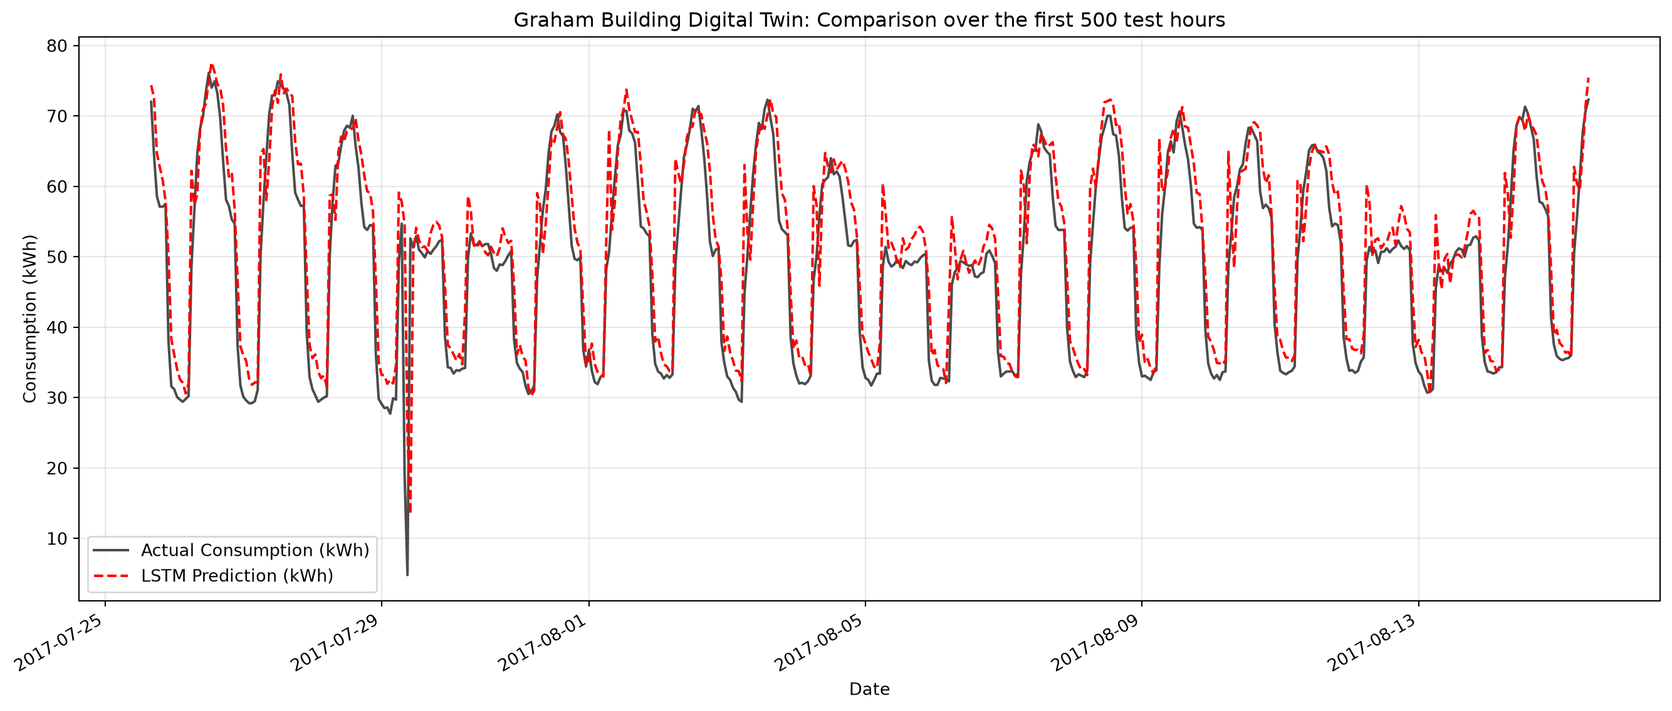
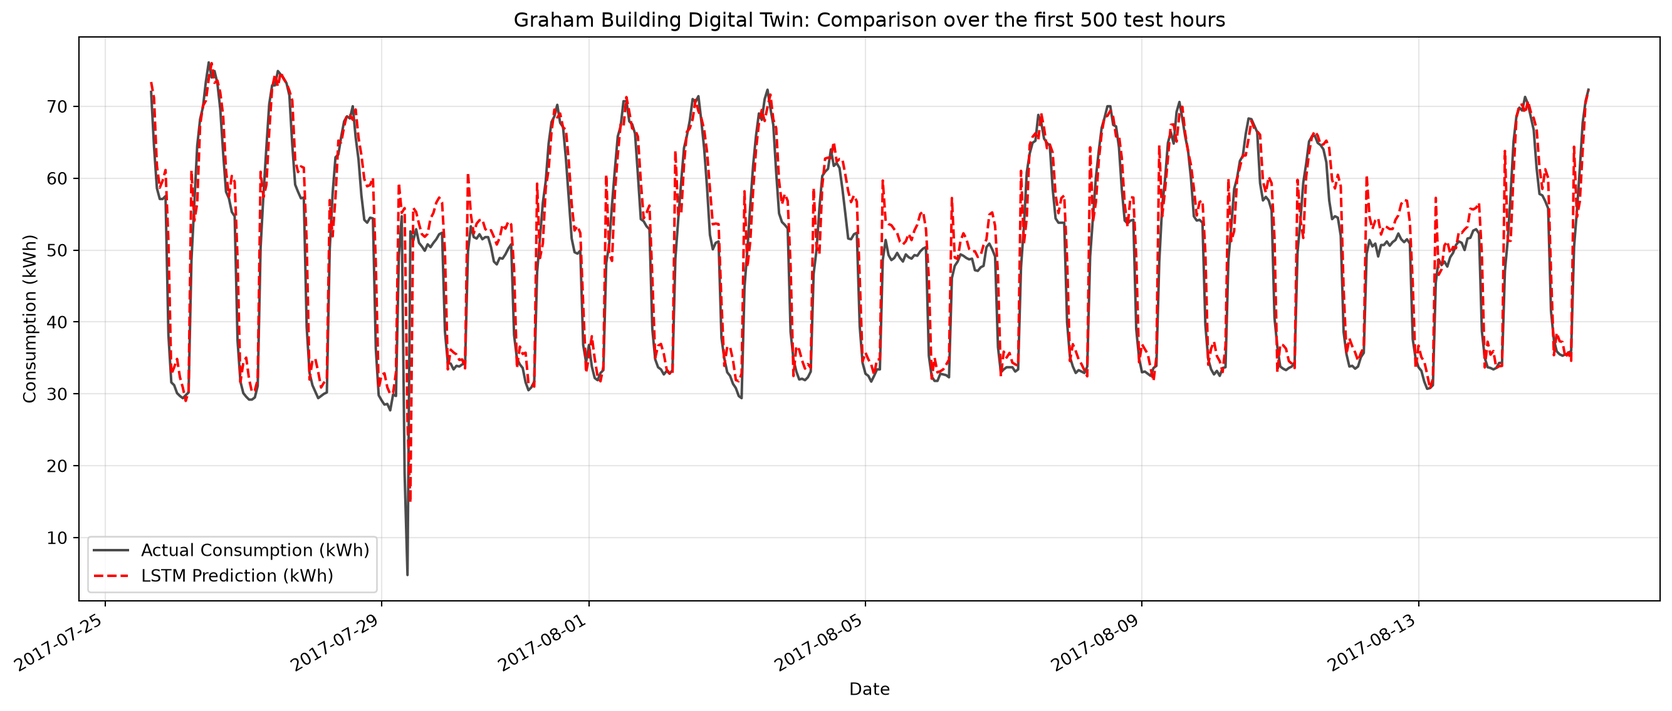
Built site for gh-pages

diff --git a/ai-ml/optitherm.html b/ai-ml/optitherm.html
@@ -497,7 +497,7 @@ os.environ['KAGGLE_KEY'] = "your_api_key"</code></pre>
 </div>
 </div>
 <hr>
-<div id="7ec935d2" class="cell" data-execution_count="1">
+<div id="0e79aba7" class="cell" data-execution_count="1">
 <div class="code-copy-outer-scaffold"><div class="sourceCode cell-code" id="cb2"><pre class="sourceCode python code-with-copy"><code class="sourceCode python"><span id="cb2-1"><a href="#cb2-1" aria-hidden="true" tabindex="-1"></a><span class="im">import</span> os</span>
 <span id="cb2-2"><a href="#cb2-2" aria-hidden="true" tabindex="-1"></a><span class="im">import</span> pandas <span class="im">as</span> pd</span>
 <span id="cb2-3"><a href="#cb2-3" aria-hidden="true" tabindex="-1"></a></span>
@@ -598,7 +598,7 @@ operable program or batch file.</code></pre>
 </section>
 <section id="stage-1-data-engineering-and-consolidation-1" class="level2">
 <h2 class="anchored" data-anchor-id="stage-1-data-engineering-and-consolidation-1">Stage 1: Data Engineering and Consolidation</h2>
-<div id="d44dda5a" class="cell" data-execution_count="2">
+<div id="8f6107e3" class="cell" data-execution_count="2">
 <div class="code-copy-outer-scaffold"><div class="sourceCode cell-code" id="cb5"><pre class="sourceCode python code-with-copy"><code class="sourceCode python"><span id="cb5-1"><a href="#cb5-1" aria-hidden="true" tabindex="-1"></a><span class="co"># Parameters for the digital twin</span></span>
 <span id="cb5-2"><a href="#cb5-2" aria-hidden="true" tabindex="-1"></a>building_id <span class="op">=</span> <span class="st">"Panther_office_Graham"</span></span>
 <span id="cb5-3"><a href="#cb5-3" aria-hidden="true" tabindex="-1"></a>site_id <span class="op">=</span> <span class="st">"Panther"</span></span>
@@ -663,7 +663,7 @@ dtype: int64</code></pre>
 <section id="next-step" class="level4">
 <h4 class="anchored" data-anchor-id="next-step">Next Step</h4>
 <p>Before deciding whether to impute or discard these observations, a visual temporal analysis is required to identify the distribution and duration of the electricity meter outages.</p>
-<div id="7458c3c0" class="cell" data-execution_count="3">
+<div id="fa9366c3" class="cell" data-execution_count="3">
 <div class="code-copy-outer-scaffold"><div class="sourceCode cell-code" id="cb7"><pre class="sourceCode python code-with-copy"><code class="sourceCode python"><span id="cb7-1"><a href="#cb7-1" aria-hidden="true" tabindex="-1"></a><span class="im">import</span> matplotlib.pyplot <span class="im">as</span> plt</span>
 <span id="cb7-2"><a href="#cb7-2" aria-hidden="true" tabindex="-1"></a></span>
 <span id="cb7-3"><a href="#cb7-3" aria-hidden="true" tabindex="-1"></a><span class="bu">print</span>(<span class="st">"1. Cleaning exogenous variables (weather data)..."</span>)</span>
@@ -719,7 +719,7 @@ dtype: int64
 <p>Interestingly, the prolonged sensor outage observed during the summer of 2017 was retained and used as a natural temporal boundary between the training and testing datasets. This approach avoids arbitrary data splitting strategies and ensures a realistic evaluation scenario, where the model is trained on past observations and tested on future unseen conditions.</p>
 <p><strong>Methodological justification:</strong></p>
 <p>The thermal dynamics of a building are learned from temporal sequences using recurrent neural networks (RNN/LSTM) with sliding windows. Therefore, preserving the chronological structure of the data is essential. By using the sensor outage as a natural separation point, the model evaluation better reflects a real-world deployment scenario, where future energy consumption must be predicted based solely on historical information.</p>
-<div id="4a08ff21" class="cell" data-execution_count="4">
+<div id="953369a5" class="cell" data-execution_count="4">
 <div class="code-copy-outer-scaffold"><div class="sourceCode cell-code" id="cb9"><pre class="sourceCode python code-with-copy"><code class="sourceCode python"><span id="cb9-1"><a href="#cb9-1" aria-hidden="true" tabindex="-1"></a><span class="bu">print</span>(<span class="st">"1. Removing the initial data gap (early 2016)..."</span>)</span>
 <span id="cb9-2"><a href="#cb9-2" aria-hidden="true" tabindex="-1"></a></span>
 <span id="cb9-3"><a href="#cb9-3" aria-hidden="true" tabindex="-1"></a><span class="co"># Remove the period with insufficient data coverage</span></span>
@@ -787,7 +787,7 @@ dtype: int64
 <p><strong><em>Why use both sine and cosine components?</em></strong></p>
 <p>Using only one trigonometric function introduces ambiguity due to symmetry. For example, if only the sine component is used, midnight (<span class="math inline">\(\sin(0)=0\)</span>) and noon (<span class="math inline">\(\sin(\pi)=0\)</span>) would receive the same value, preventing the model from distinguishing between day and night. By combining the cosine component (<span class="math inline">\(X\)</span>-axis) and sine component (<span class="math inline">\(Y\)</span>-axis), each timestamp is uniquely represented in a two-dimensional periodic space. Consequently, the Euclidean distance between 23:00 and 01:00 is correctly interpreted as small by the neural network.</p>
 <p>The following code adds these temporal coordinates to the dataset:</p>
-<div id="bf4d4136" class="cell" data-execution_count="5">
+<div id="4825a92d" class="cell" data-execution_count="5">
 <div class="code-copy-outer-scaffold"><div class="sourceCode cell-code" id="cb11"><pre class="sourceCode python code-with-copy"><code class="sourceCode python"><span id="cb11-1"><a href="#cb11-1" aria-hidden="true" tabindex="-1"></a><span class="im">import</span> numpy <span class="im">as</span> np</span>
 <span id="cb11-2"><a href="#cb11-2" aria-hidden="true" tabindex="-1"></a><span class="im">import</span> matplotlib.pyplot <span class="im">as</span> plt</span>
 <span id="cb11-3"><a href="#cb11-3" aria-hidden="true" tabindex="-1"></a></span>
@@ -843,7 +843,7 @@ dtype: int64
 <p>This analysis provides valuable insights for feature selection before training the PyTorch model. Variables with limited predictive relevance may be removed to reduce noise and decrease the dimensionality of the input tensors. However, correlation alone does not fully capture the predictive value of a feature, especially in nonlinear time-dependent systems such as building thermal dynamics.</p>
 <p><strong>Code: Correlation Heatmap</strong></p>
 <p>The following visualization uses the <code>seaborn</code> library to generate a correlation heatmap, providing an overview of the relationships between the selected features and the energy consumption target.</p>
-<div id="a93eaab1" class="cell" data-execution_count="6">
+<div id="4eb40aef" class="cell" data-execution_count="6">
 <div class="code-copy-outer-scaffold"><div class="sourceCode cell-code" id="cb13"><pre class="sourceCode python code-with-copy"><code class="sourceCode python"><span id="cb13-1"><a href="#cb13-1" aria-hidden="true" tabindex="-1"></a><span class="im">import</span> seaborn <span class="im">as</span> sns</span>
 <span id="cb13-2"><a href="#cb13-2" aria-hidden="true" tabindex="-1"></a><span class="im">import</span> matplotlib.pyplot <span class="im">as</span> plt</span>
 <span id="cb13-3"><a href="#cb13-3" aria-hidden="true" tabindex="-1"></a></span>
@@ -912,7 +912,7 @@ Generating the global Heatmap...</code></pre>
 <li><code>day_cos</code>: weekly temporal encoding component.</li>
 </ul>
 <p>The objective is to determine whether past values of these variables contain predictive information about future electricity consumption over a 24-hour horizon. This analysis helps identify delayed relationships that cannot be captured by a standard Pearson correlation computed at the same timestamp.</p>
-<div id="12097fa8" class="cell" data-execution_count="7">
+<div id="22a206e7" class="cell" data-execution_count="7">
 <div class="code-copy-outer-scaffold"><div class="sourceCode cell-code" id="cb15"><pre class="sourceCode python code-with-copy"><code class="sourceCode python"><span id="cb15-1"><a href="#cb15-1" aria-hidden="true" tabindex="-1"></a><span class="im">import</span> pandas <span class="im">as</span> pd</span>
 <span id="cb15-2"><a href="#cb15-2" aria-hidden="true" tabindex="-1"></a><span class="im">import</span> matplotlib.pyplot <span class="im">as</span> plt</span>
 <span id="cb15-3"><a href="#cb15-3" aria-hidden="true" tabindex="-1"></a></span>
@@ -1060,7 +1060,7 @@ dtype: float64</code></pre>
 <p>To predict the energy consumption at time <span class="math inline">\(t\)</span>, the model receives the previous 24 hours of system information:</p>
 <p>[ [X_{t-24}, X_{t-23}, …, X_{t-1}] ]</p>
 <p>Any sequence containing missing target values is discarded to ensure that the model is trained only on physically consistent observations.</p>
-<div id="18eb0b86" class="cell" data-execution_count="8">
+<div id="74896b10" class="cell" data-execution_count="8">
 <div class="code-copy-outer-scaffold"><div class="sourceCode cell-code" id="cb17"><pre class="sourceCode python code-with-copy"><code class="sourceCode python"><span id="cb17-1"><a href="#cb17-1" aria-hidden="true" tabindex="-1"></a><span class="im">import</span> numpy <span class="im">as</span> np</span>
 <span id="cb17-2"><a href="#cb17-2" aria-hidden="true" tabindex="-1"></a><span class="im">import</span> pandas <span class="im">as</span> pd</span>
 <span id="cb17-3"><a href="#cb17-3" aria-hidden="true" tabindex="-1"></a><span class="im">from</span> sklearn.preprocessing <span class="im">import</span> MinMaxScaler</span>
@@ -1193,7 +1193,7 @@ Testing X : (3824, 24, 11), y: (3824, 1)</code></pre>
 </ol>
 <p>The model parameters are optimized by minimizing the Mean Squared Error (MSE) loss, which is appropriate for this continuous regression problem. The Adam optimizer is selected due to its adaptive learning rate mechanism and its robustness for training deep neural networks.</p>
 <p>The following code implements the <code>ThermalLSTM</code> architecture and initializes the training configuration.</p>
-<div id="5716e22a" class="cell" data-execution_count="9">
+<div id="ab70c3a6" class="cell" data-execution_count="9">
 <div class="code-copy-outer-scaffold"><div class="sourceCode cell-code" id="cb19"><pre class="sourceCode python code-with-copy"><code class="sourceCode python"><span id="cb19-1"><a href="#cb19-1" aria-hidden="true" tabindex="-1"></a><span class="im">import</span> torch</span>
 <span id="cb19-2"><a href="#cb19-2" aria-hidden="true" tabindex="-1"></a><span class="im">import</span> torch.nn <span class="im">as</span> nn</span>
 <span id="cb19-3"><a href="#cb19-3" aria-hidden="true" tabindex="-1"></a><span class="im">import</span> torch.optim <span class="im">as</span> optim</span>
@@ -1276,7 +1276,7 @@ ThermalLSTM(
 -&gt; Model ready for training.</code></pre>
 </div>
 </div>
-<div id="3354c1bd" class="cell" data-execution_count="10">
+<div id="896c7929" class="cell" data-execution_count="10">
 <div class="code-copy-outer-scaffold"><div class="sourceCode cell-code" id="cb21"><pre class="sourceCode python code-with-copy"><code class="sourceCode python"><span id="cb21-1"><a href="#cb21-1" aria-hidden="true" tabindex="-1"></a><span class="im">import</span> torch</span>
 <span id="cb21-2"><a href="#cb21-2" aria-hidden="true" tabindex="-1"></a><span class="im">from</span> torch.utils.data <span class="im">import</span> TensorDataset, DataLoader</span>
 <span id="cb21-3"><a href="#cb21-3" aria-hidden="true" tabindex="-1"></a></span>
@@ -1325,7 +1325,7 @@ Creating DataLoaders...
 <p>After each epoch, the model is evaluated on the future unseen dataset separated by the natural sensor outage boundary. This chronological evaluation provides a realistic measure of the model’s generalization capability.</p></li>
 </ol>
 <p>The evolution of the training and evaluation losses is stored throughout the optimization process to monitor convergence and detect potential overfitting.</p>
-<div id="f65a07c1" class="cell" data-execution_count="11">
+<div id="9c539db8" class="cell" data-execution_count="11">
 <div class="code-copy-outer-scaffold"><div class="sourceCode cell-code" id="cb23"><pre class="sourceCode python code-with-copy"><code class="sourceCode python"><span id="cb23-1"><a href="#cb23-1" aria-hidden="true" tabindex="-1"></a><span class="im">import</span> torch</span>
 <span id="cb23-2"><a href="#cb23-2" aria-hidden="true" tabindex="-1"></a></span>
 <span id="cb23-3"><a href="#cb23-3" aria-hidden="true" tabindex="-1"></a><span class="bu">print</span>(<span class="st">"Configuring the training loop..."</span>)</span>
@@ -1405,33 +1405,33 @@ Creating DataLoaders...
 <span id="cb23-77"><a href="#cb23-77" aria-hidden="true" tabindex="-1"></a><span class="bu">print</span>(<span class="ss">f"Best test MSE: </span><span class="sc">{</span>best_test_loss<span class="sc">:.6f}</span><span class="ss">"</span>)</span></code></pre></div><button title="Copy to Clipboard" class="code-copy-button"><i class="bi"></i></button></div>
 <div class="cell-output cell-output-stdout">
 <pre><code>Configuring the training loop...
-Epoch [  1/200] | Train Loss (MSE): 0.026832 | Test Loss (MSE): 0.021103
-Epoch [ 10/200] | Train Loss (MSE): 0.002679 | Test Loss (MSE): 0.004645
-Epoch [ 20/200] | Train Loss (MSE): 0.001931 | Test Loss (MSE): 0.003040
-Epoch [ 30/200] | Train Loss (MSE): 0.000739 | Test Loss (MSE): 0.001624
-Epoch [ 40/200] | Train Loss (MSE): 0.000601 | Test Loss (MSE): 0.001404
-Epoch [ 50/200] | Train Loss (MSE): 0.000558 | Test Loss (MSE): 0.001322
-Epoch [ 60/200] | Train Loss (MSE): 0.000543 | Test Loss (MSE): 0.001395
-Epoch [ 70/200] | Train Loss (MSE): 0.000503 | Test Loss (MSE): 0.001258
-Epoch [ 80/200] | Train Loss (MSE): 0.000497 | Test Loss (MSE): 0.001198
-Epoch [ 90/200] | Train Loss (MSE): 0.000478 | Test Loss (MSE): 0.001178
-Epoch [100/200] | Train Loss (MSE): 0.000448 | Test Loss (MSE): 0.001246
-Epoch [110/200] | Train Loss (MSE): 0.000442 | Test Loss (MSE): 0.001269
-Epoch [120/200] | Train Loss (MSE): 0.000427 | Test Loss (MSE): 0.001174
-Epoch [130/200] | Train Loss (MSE): 0.000418 | Test Loss (MSE): 0.001082
-Epoch [140/200] | Train Loss (MSE): 0.000406 | Test Loss (MSE): 0.001025
-Epoch [150/200] | Train Loss (MSE): 0.000403 | Test Loss (MSE): 0.001162
-Epoch [160/200] | Train Loss (MSE): 0.000393 | Test Loss (MSE): 0.001005
-Epoch [170/200] | Train Loss (MSE): 0.000374 | Test Loss (MSE): 0.000958
-Epoch [180/200] | Train Loss (MSE): 0.000380 | Test Loss (MSE): 0.000965
-Epoch [190/200] | Train Loss (MSE): 0.000380 | Test Loss (MSE): 0.001027
-Epoch [200/200] | Train Loss (MSE): 0.000371 | Test Loss (MSE): 0.001080
+Epoch [  1/200] | Train Loss (MSE): 0.065817 | Test Loss (MSE): 0.023738
+Epoch [ 10/200] | Train Loss (MSE): 0.002777 | Test Loss (MSE): 0.003901
+Epoch [ 20/200] | Train Loss (MSE): 0.001678 | Test Loss (MSE): 0.002045
+Epoch [ 30/200] | Train Loss (MSE): 0.000933 | Test Loss (MSE): 0.001537
+Epoch [ 40/200] | Train Loss (MSE): 0.000699 | Test Loss (MSE): 0.001363
+Epoch [ 50/200] | Train Loss (MSE): 0.000639 | Test Loss (MSE): 0.001084
+Epoch [ 60/200] | Train Loss (MSE): 0.000621 | Test Loss (MSE): 0.001054
+Epoch [ 70/200] | Train Loss (MSE): 0.000575 | Test Loss (MSE): 0.000969
+Epoch [ 80/200] | Train Loss (MSE): 0.000542 | Test Loss (MSE): 0.001286
+Epoch [ 90/200] | Train Loss (MSE): 0.000538 | Test Loss (MSE): 0.000961
+Epoch [100/200] | Train Loss (MSE): 0.000514 | Test Loss (MSE): 0.001072
+Epoch [110/200] | Train Loss (MSE): 0.000491 | Test Loss (MSE): 0.001225
+Epoch [120/200] | Train Loss (MSE): 0.000492 | Test Loss (MSE): 0.000966
+Epoch [130/200] | Train Loss (MSE): 0.000481 | Test Loss (MSE): 0.001068
+Epoch [140/200] | Train Loss (MSE): 0.000453 | Test Loss (MSE): 0.000983
+Epoch [150/200] | Train Loss (MSE): 0.000465 | Test Loss (MSE): 0.000897
+Epoch [160/200] | Train Loss (MSE): 0.000441 | Test Loss (MSE): 0.000977
+Epoch [170/200] | Train Loss (MSE): 0.000432 | Test Loss (MSE): 0.001035
+Epoch [180/200] | Train Loss (MSE): 0.000422 | Test Loss (MSE): 0.001026
+Epoch [190/200] | Train Loss (MSE): 0.000403 | Test Loss (MSE): 0.001038
+Epoch [200/200] | Train Loss (MSE): 0.000409 | Test Loss (MSE): 0.000983
 
 --- Training completed successfully! ---
-Best test MSE: 0.000951</code></pre>
+Best test MSE: 0.000837</code></pre>
 </div>
 </div>
-<div id="fd61c3e2" class="cell" data-execution_count="12">
+<div id="9a92c1a9" class="cell" data-execution_count="12">
 <div class="code-copy-outer-scaffold"><div class="sourceCode cell-code" id="cb25"><pre class="sourceCode python code-with-copy"><code class="sourceCode python"><span id="cb25-1"><a href="#cb25-1" aria-hidden="true" tabindex="-1"></a><span class="im">import</span> matplotlib.dates <span class="im">as</span> mdates</span>
 <span id="cb25-2"><a href="#cb25-2" aria-hidden="true" tabindex="-1"></a><span class="im">import</span> matplotlib.pyplot <span class="im">as</span> plt</span>
 <span id="cb25-3"><a href="#cb25-3" aria-hidden="true" tabindex="-1"></a></span>
@@ -1487,7 +1487,7 @@ Best test MSE: 0.000951</code></pre>
 </div>
 </div>
 </div>
-<div id="72e72d1b" class="cell" data-execution_count="13">
+<div id="9536b90f" class="cell" data-execution_count="13">
 <div class="code-copy-outer-scaffold"><div class="sourceCode cell-code" id="cb27"><pre class="sourceCode python code-with-copy"><code class="sourceCode python"><span id="cb27-1"><a href="#cb27-1" aria-hidden="true" tabindex="-1"></a>plt.figure(figsize<span class="op">=</span>(<span class="dv">10</span>, <span class="dv">5</span>))</span>
 <span id="cb27-2"><a href="#cb27-2" aria-hidden="true" tabindex="-1"></a>plt.plot(train_losses, label<span class="op">=</span><span class="st">"Train Loss"</span>, color<span class="op">=</span><span class="st">'blue'</span>)</span>
 <span id="cb27-3"><a href="#cb27-3" aria-hidden="true" tabindex="-1"></a>plt.plot(test_losses, label<span class="op">=</span><span class="st">"Test Loss"</span>, color<span class="op">=</span><span class="st">'orange'</span>, linestyle<span class="op">=</span><span class="st">'--'</span>)</span>
@@ -1506,7 +1506,7 @@ Best test MSE: 0.000951</code></pre>
 </div>
 </div>
 </div>
-<div id="136bf10f" class="cell" data-execution_count="14">
+<div id="674209c2" class="cell" data-execution_count="14">
 <div class="code-copy-outer-scaffold"><div class="sourceCode cell-code" id="cb28"><pre class="sourceCode python code-with-copy"><code class="sourceCode python"><span id="cb28-1"><a href="#cb28-1" aria-hidden="true" tabindex="-1"></a>plt.figure(figsize<span class="op">=</span>(<span class="dv">6</span>, <span class="dv">6</span>))</span>
 <span id="cb28-2"><a href="#cb28-2" aria-hidden="true" tabindex="-1"></a>plt.scatter(actuals_rescaled, predictions_rescaled, alpha<span class="op">=</span><span class="fl">0.3</span>, color<span class="op">=</span><span class="st">'purple'</span>, s<span class="op">=</span><span class="dv">10</span>, label<span class="op">=</span><span class="st">"Predictions"</span>)</span>
 <span id="cb28-3"><a href="#cb28-3" aria-hidden="true" tabindex="-1"></a></span>

diff --git a/ai-ml/multi_output_regression.html b/ai-ml/multi_output_regression.html
@@ -557,55 +557,57 @@ Sequential(
 <section id="model-training" class="level2">
 <h2 class="anchored" data-anchor-id="model-training">3. Model Training</h2>
 <p>We train the model for 1000 epochs. Because we are optimizing a continuous output, we track the Mean Squared Error (MSE). We shuffle the data at the start of every epoch to ensure stochasticity in our mini-batches.</p>
-<div id="b02b2f55" class="cell" data-execution_count="49">
+<div id="b02b2f55" class="cell">
 <div class="code-copy-outer-scaffold"><div class="sourceCode cell-code" id="cb6"><pre class="sourceCode python code-with-copy"><code class="sourceCode python"><span id="cb6-1"><a href="#cb6-1" aria-hidden="true" tabindex="-1"></a>EPOCHS <span class="op">=</span><span class="dv">1000</span></span>
 <span id="cb6-2"><a href="#cb6-2" aria-hidden="true" tabindex="-1"></a>TEST_FREQ <span class="op">=</span> <span class="dv">10</span></span>
-<span id="cb6-3"><a href="#cb6-3" aria-hidden="true" tabindex="-1"></a>BATCH_SIZE <span class="op">=</span> <span class="dv">128</span></span>
-<span id="cb6-4"><a href="#cb6-4" aria-hidden="true" tabindex="-1"></a></span>
-<span id="cb6-5"><a href="#cb6-5" aria-hidden="true" tabindex="-1"></a>loss_values <span class="op">=</span> []</span>
-<span id="cb6-6"><a href="#cb6-6" aria-hidden="true" tabindex="-1"></a>val_loss_values <span class="op">=</span> []</span>
-<span id="cb6-7"><a href="#cb6-7" aria-hidden="true" tabindex="-1"></a></span>
-<span id="cb6-8"><a href="#cb6-8" aria-hidden="true" tabindex="-1"></a><span class="cf">for</span> epoch <span class="kw">in</span> <span class="bu">range</span>(EPOCHS):</span>
-<span id="cb6-9"><a href="#cb6-9" aria-hidden="true" tabindex="-1"></a>    model.train()</span>
-<span id="cb6-10"><a href="#cb6-10" aria-hidden="true" tabindex="-1"></a>    </span>
-<span id="cb6-11"><a href="#cb6-11" aria-hidden="true" tabindex="-1"></a>    <span class="co"># Shuffle training data</span></span>
-<span id="cb6-12"><a href="#cb6-12" aria-hidden="true" tabindex="-1"></a>    indices <span class="op">=</span> np.arange(X_train.shape[<span class="dv">0</span>])</span>
-<span id="cb6-13"><a href="#cb6-13" aria-hidden="true" tabindex="-1"></a>    rng.shuffle(indices)</span>
-<span id="cb6-14"><a href="#cb6-14" aria-hidden="true" tabindex="-1"></a>    X_train_shuffled <span class="op">=</span> X_train[indices]</span>
-<span id="cb6-15"><a href="#cb6-15" aria-hidden="true" tabindex="-1"></a>    y_train_shuffled <span class="op">=</span> y_train[indices]</span>
-<span id="cb6-16"><a href="#cb6-16" aria-hidden="true" tabindex="-1"></a>    </span>
-<span id="cb6-17"><a href="#cb6-17" aria-hidden="true" tabindex="-1"></a>    <span class="co"># Mini-batch training</span></span>
-<span id="cb6-18"><a href="#cb6-18" aria-hidden="true" tabindex="-1"></a>    <span class="cf">for</span> start_idx <span class="kw">in</span> <span class="bu">range</span>(<span class="dv">0</span>, X_train.shape[<span class="dv">0</span>], BATCH_SIZE):</span>
-<span id="cb6-19"><a href="#cb6-19" aria-hidden="true" tabindex="-1"></a>        end_idx <span class="op">=</span> start_idx <span class="op">+</span> BATCH_SIZE</span>
-<span id="cb6-20"><a href="#cb6-20" aria-hidden="true" tabindex="-1"></a>        X_batch <span class="op">=</span> X_train_shuffled[start_idx:end_idx]</span>
-<span id="cb6-21"><a href="#cb6-21" aria-hidden="true" tabindex="-1"></a>        y_batch <span class="op">=</span> y_train_shuffled[start_idx:end_idx]</span>
-<span id="cb6-22"><a href="#cb6-22" aria-hidden="true" tabindex="-1"></a>        </span>
-<span id="cb6-23"><a href="#cb6-23" aria-hidden="true" tabindex="-1"></a>        <span class="co"># Forward pass</span></span>
-<span id="cb6-24"><a href="#cb6-24" aria-hidden="true" tabindex="-1"></a>        y_pred <span class="op">=</span> model(X_batch)</span>
-<span id="cb6-25"><a href="#cb6-25" aria-hidden="true" tabindex="-1"></a>        </span>
-<span id="cb6-26"><a href="#cb6-26" aria-hidden="true" tabindex="-1"></a>        <span class="co"># Compute loss (caches y_pred and y_expected internally)</span></span>
-<span id="cb6-27"><a href="#cb6-27" aria-hidden="true" tabindex="-1"></a>        loss_fn(y_predicted<span class="op">=</span>y_pred, y_expected<span class="op">=</span>y_batch)</span>
-<span id="cb6-28"><a href="#cb6-28" aria-hidden="true" tabindex="-1"></a>        </span>
-<span id="cb6-29"><a href="#cb6-29" aria-hidden="true" tabindex="-1"></a>        <span class="co"># Get the initial gradient from the MSE loss function</span></span>
-<span id="cb6-30"><a href="#cb6-30" aria-hidden="true" tabindex="-1"></a>        initial_gradient <span class="op">=</span> loss_fn.backward()</span>
-<span id="cb6-31"><a href="#cb6-31" aria-hidden="true" tabindex="-1"></a>        </span>
-<span id="cb6-32"><a href="#cb6-32" aria-hidden="true" tabindex="-1"></a>        <span class="co"># Backpropagation</span></span>
-<span id="cb6-33"><a href="#cb6-33" aria-hidden="true" tabindex="-1"></a>        model.backward(initial_gradient)</span>
-<span id="cb6-34"><a href="#cb6-34" aria-hidden="true" tabindex="-1"></a>        </span>
-<span id="cb6-35"><a href="#cb6-35" aria-hidden="true" tabindex="-1"></a>        <span class="co"># Update weights</span></span>
-<span id="cb6-36"><a href="#cb6-36" aria-hidden="true" tabindex="-1"></a>        optimizer.step(model)</span>
-<span id="cb6-37"><a href="#cb6-37" aria-hidden="true" tabindex="-1"></a></span>
-<span id="cb6-38"><a href="#cb6-38" aria-hidden="true" tabindex="-1"></a>    <span class="co"># Evaluation</span></span>
-<span id="cb6-39"><a href="#cb6-39" aria-hidden="true" tabindex="-1"></a>    <span class="cf">if</span> (epoch <span class="op">+</span> <span class="dv">1</span>) <span class="op">%</span> TEST_FREQ <span class="op">==</span> <span class="dv">0</span> <span class="kw">or</span> epoch <span class="op">==</span> <span class="dv">0</span>:</span>
-<span id="cb6-40"><a href="#cb6-40" aria-hidden="true" tabindex="-1"></a>        model.<span class="bu">eval</span>()</span>
-<span id="cb6-41"><a href="#cb6-41" aria-hidden="true" tabindex="-1"></a>        train_pred <span class="op">=</span> model(X_train)</span>
-<span id="cb6-42"><a href="#cb6-42" aria-hidden="true" tabindex="-1"></a>        train_loss <span class="op">=</span> loss_fn(y_predicted<span class="op">=</span>train_pred, y_expected<span class="op">=</span>y_train)</span>
-<span id="cb6-43"><a href="#cb6-43" aria-hidden="true" tabindex="-1"></a>        loss_values.append(train_loss)</span>
-<span id="cb6-44"><a href="#cb6-44" aria-hidden="true" tabindex="-1"></a>        </span>
-<span id="cb6-45"><a href="#cb6-45" aria-hidden="true" tabindex="-1"></a>        test_pred <span class="op">=</span> model(X_test)</span>
-<span id="cb6-46"><a href="#cb6-46" aria-hidden="true" tabindex="-1"></a>        test_loss <span class="op">=</span> loss_fn(y_predicted<span class="op">=</span>test_pred, y_expected<span class="op">=</span>y_test)</span>
-<span id="cb6-47"><a href="#cb6-47" aria-hidden="true" tabindex="-1"></a>        val_loss_values.append(test_loss)</span>
-<span id="cb6-48"><a href="#cb6-48" aria-hidden="true" tabindex="-1"></a>        <span class="bu">print</span>(<span class="ss">f"Epoch </span><span class="sc">{</span>epoch <span class="op">+</span> <span class="dv">1</span><span class="sc">:4d}</span><span class="ss">/</span><span class="sc">{</span>EPOCHS<span class="sc">}</span><span class="ss"> | Train MSE: </span><span class="sc">{</span>train_loss<span class="sc">:.6f}</span><span class="ss"> | Val MSE: </span><span class="sc">{</span>test_loss<span class="sc">:.6f}</span><span class="ss">"</span>)</span></code></pre></div><button title="Copy to Clipboard" class="code-copy-button"><i class="bi"></i></button></div>
+<span id="cb6-3"><a href="#cb6-3" aria-hidden="true" tabindex="-1"></a>PRINT_FREQ <span class="op">=</span> <span class="dv">100</span></span>
+<span id="cb6-4"><a href="#cb6-4" aria-hidden="true" tabindex="-1"></a>BATCH_SIZE <span class="op">=</span> <span class="dv">128</span></span>
+<span id="cb6-5"><a href="#cb6-5" aria-hidden="true" tabindex="-1"></a></span>
+<span id="cb6-6"><a href="#cb6-6" aria-hidden="true" tabindex="-1"></a>loss_values <span class="op">=</span> []</span>
+<span id="cb6-7"><a href="#cb6-7" aria-hidden="true" tabindex="-1"></a>val_loss_values <span class="op">=</span> []</span>
+<span id="cb6-8"><a href="#cb6-8" aria-hidden="true" tabindex="-1"></a></span>
+<span id="cb6-9"><a href="#cb6-9" aria-hidden="true" tabindex="-1"></a><span class="cf">for</span> epoch <span class="kw">in</span> <span class="bu">range</span>(EPOCHS):</span>
+<span id="cb6-10"><a href="#cb6-10" aria-hidden="true" tabindex="-1"></a>    model.train()</span>
+<span id="cb6-11"><a href="#cb6-11" aria-hidden="true" tabindex="-1"></a>    </span>
+<span id="cb6-12"><a href="#cb6-12" aria-hidden="true" tabindex="-1"></a>    <span class="co"># Shuffle training data</span></span>
+<span id="cb6-13"><a href="#cb6-13" aria-hidden="true" tabindex="-1"></a>    indices <span class="op">=</span> np.arange(X_train.shape[<span class="dv">0</span>])</span>
+<span id="cb6-14"><a href="#cb6-14" aria-hidden="true" tabindex="-1"></a>    rng.shuffle(indices)</span>
+<span id="cb6-15"><a href="#cb6-15" aria-hidden="true" tabindex="-1"></a>    X_train_shuffled <span class="op">=</span> X_train[indices]</span>
+<span id="cb6-16"><a href="#cb6-16" aria-hidden="true" tabindex="-1"></a>    y_train_shuffled <span class="op">=</span> y_train[indices]</span>
+<span id="cb6-17"><a href="#cb6-17" aria-hidden="true" tabindex="-1"></a>    </span>
+<span id="cb6-18"><a href="#cb6-18" aria-hidden="true" tabindex="-1"></a>    <span class="co"># Mini-batch training</span></span>
+<span id="cb6-19"><a href="#cb6-19" aria-hidden="true" tabindex="-1"></a>    <span class="cf">for</span> start_idx <span class="kw">in</span> <span class="bu">range</span>(<span class="dv">0</span>, X_train.shape[<span class="dv">0</span>], BATCH_SIZE):</span>
+<span id="cb6-20"><a href="#cb6-20" aria-hidden="true" tabindex="-1"></a>        end_idx <span class="op">=</span> start_idx <span class="op">+</span> BATCH_SIZE</span>
+<span id="cb6-21"><a href="#cb6-21" aria-hidden="true" tabindex="-1"></a>        X_batch <span class="op">=</span> X_train_shuffled[start_idx:end_idx]</span>
+<span id="cb6-22"><a href="#cb6-22" aria-hidden="true" tabindex="-1"></a>        y_batch <span class="op">=</span> y_train_shuffled[start_idx:end_idx]</span>
+<span id="cb6-23"><a href="#cb6-23" aria-hidden="true" tabindex="-1"></a>        </span>
+<span id="cb6-24"><a href="#cb6-24" aria-hidden="true" tabindex="-1"></a>        <span class="co"># Forward pass</span></span>
+<span id="cb6-25"><a href="#cb6-25" aria-hidden="true" tabindex="-1"></a>        y_pred <span class="op">=</span> model(X_batch)</span>
+<span id="cb6-26"><a href="#cb6-26" aria-hidden="true" tabindex="-1"></a>        </span>
+<span id="cb6-27"><a href="#cb6-27" aria-hidden="true" tabindex="-1"></a>        <span class="co"># Compute loss (caches y_pred and y_expected internally)</span></span>
+<span id="cb6-28"><a href="#cb6-28" aria-hidden="true" tabindex="-1"></a>        loss_fn(y_predicted<span class="op">=</span>y_pred, y_expected<span class="op">=</span>y_batch)</span>
+<span id="cb6-29"><a href="#cb6-29" aria-hidden="true" tabindex="-1"></a>        </span>
+<span id="cb6-30"><a href="#cb6-30" aria-hidden="true" tabindex="-1"></a>        <span class="co"># Get the initial gradient from the MSE loss function</span></span>
+<span id="cb6-31"><a href="#cb6-31" aria-hidden="true" tabindex="-1"></a>        initial_gradient <span class="op">=</span> loss_fn.backward()</span>
+<span id="cb6-32"><a href="#cb6-32" aria-hidden="true" tabindex="-1"></a>        </span>
+<span id="cb6-33"><a href="#cb6-33" aria-hidden="true" tabindex="-1"></a>        <span class="co"># Backpropagation</span></span>
+<span id="cb6-34"><a href="#cb6-34" aria-hidden="true" tabindex="-1"></a>        model.backward(initial_gradient)</span>
+<span id="cb6-35"><a href="#cb6-35" aria-hidden="true" tabindex="-1"></a>        </span>
+<span id="cb6-36"><a href="#cb6-36" aria-hidden="true" tabindex="-1"></a>        <span class="co"># Update weights</span></span>
+<span id="cb6-37"><a href="#cb6-37" aria-hidden="true" tabindex="-1"></a>        optimizer.step(model)</span>
+<span id="cb6-38"><a href="#cb6-38" aria-hidden="true" tabindex="-1"></a></span>
+<span id="cb6-39"><a href="#cb6-39" aria-hidden="true" tabindex="-1"></a>    <span class="co"># Evaluation</span></span>
+<span id="cb6-40"><a href="#cb6-40" aria-hidden="true" tabindex="-1"></a>    <span class="cf">if</span> (epoch <span class="op">+</span> <span class="dv">1</span>) <span class="op">%</span> TEST_FREQ <span class="op">==</span> <span class="dv">0</span> <span class="kw">or</span> epoch <span class="op">==</span> <span class="dv">0</span>:</span>
+<span id="cb6-41"><a href="#cb6-41" aria-hidden="true" tabindex="-1"></a>        model.<span class="bu">eval</span>()</span>
+<span id="cb6-42"><a href="#cb6-42" aria-hidden="true" tabindex="-1"></a>        train_pred <span class="op">=</span> model(X_train)</span>
+<span id="cb6-43"><a href="#cb6-43" aria-hidden="true" tabindex="-1"></a>        train_loss <span class="op">=</span> loss_fn(y_predicted<span class="op">=</span>train_pred, y_expected<span class="op">=</span>y_train)</span>
+<span id="cb6-44"><a href="#cb6-44" aria-hidden="true" tabindex="-1"></a>        loss_values.append(train_loss)</span>
+<span id="cb6-45"><a href="#cb6-45" aria-hidden="true" tabindex="-1"></a>        </span>
+<span id="cb6-46"><a href="#cb6-46" aria-hidden="true" tabindex="-1"></a>        test_pred <span class="op">=</span> model(X_test)</span>
+<span id="cb6-47"><a href="#cb6-47" aria-hidden="true" tabindex="-1"></a>        test_loss <span class="op">=</span> loss_fn(y_predicted<span class="op">=</span>test_pred, y_expected<span class="op">=</span>y_test)</span>
+<span id="cb6-48"><a href="#cb6-48" aria-hidden="true" tabindex="-1"></a>        val_loss_values.append(test_loss)</span>
+<span id="cb6-49"><a href="#cb6-49" aria-hidden="true" tabindex="-1"></a>        <span class="cf">if</span> epoch <span class="op">%</span> PRINT_FREQ <span class="op">==</span> <span class="dv">0</span>:</span>
+<span id="cb6-50"><a href="#cb6-50" aria-hidden="true" tabindex="-1"></a>            <span class="bu">print</span>(<span class="ss">f"Epoch </span><span class="sc">{</span>epoch <span class="op">+</span> <span class="dv">1</span><span class="sc">:4d}</span><span class="ss">/</span><span class="sc">{</span>EPOCHS<span class="sc">}</span><span class="ss"> | Train MSE: </span><span class="sc">{</span>train_loss<span class="sc">:.6f}</span><span class="ss"> | Val MSE: </span><span class="sc">{</span>test_loss<span class="sc">:.6f}</span><span class="ss">"</span>)</span></code></pre></div><button title="Copy to Clipboard" class="code-copy-button"><i class="bi"></i></button></div>
 <div class="cell-output cell-output-stdout">
 <pre><code>Epoch    1/1000 | Train MSE: 0.012770 | Val MSE: 0.013132
 Epoch   10/1000 | Train MSE: 0.005595 | Val MSE: 0.005732

diff --git a/cv.html b/cv.html
@@ -329,7 +329,7 @@ Ismaël Tchinda Ngueyong, Ph.D.
 Québec, QC, Canada
 </p>
 <p>
-<a href="https://https://scholar.google.com/citations?user=0BtIIxcAAAAJ" target="_blank"><strong>Google Scholar Publications</strong></a> | <a href="https://github.com/itchinda" target="_blank"><strong>GitHub Portfolio</strong></a> | <a href="https://www.linkedin.com/in/itchinda" target="_blank"><strong>LinkedIn</strong></a>
+<a href="https://https://scholar.google.com/citations?user=0BtIIxcAAAAJ" target="_blank"><strong>Google Scholar</strong></a> | <a href="https://github.com/itchinda" target="_blank"><strong>GitHub</strong></a> | <a href="https://www.linkedin.com/in/itchinda" target="_blank"><strong>LinkedIn</strong></a>
 </p>
 </div>
 <section id="professional-summary" class="level2">
